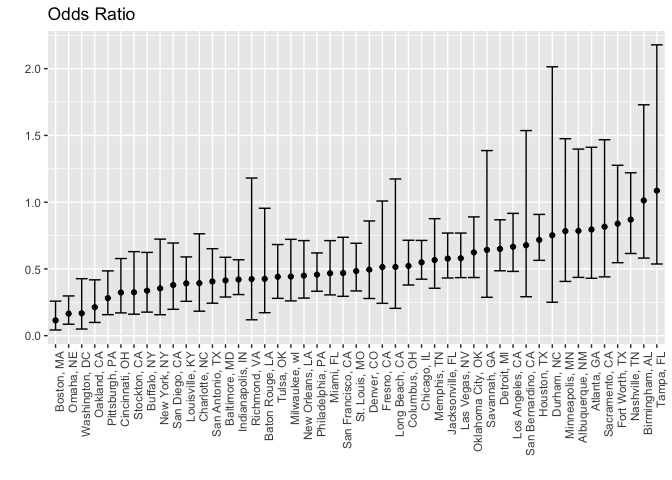
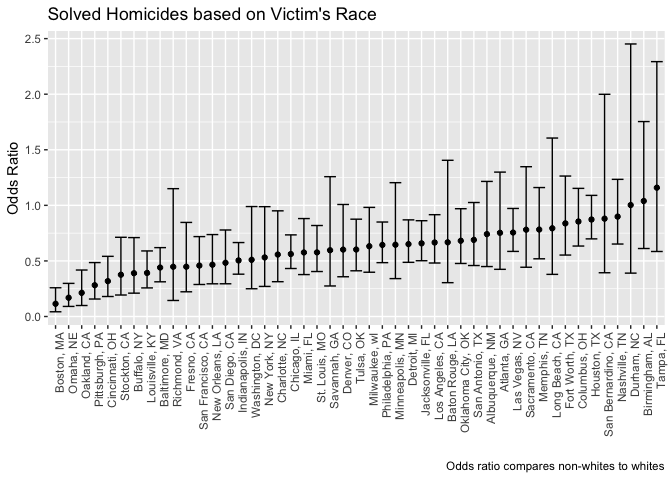
Q2 finished, annotations added

diff --git a/p8105_hw6_mm4963.md b/p8105_hw6_mm4963.md
@@ -12,20 +12,35 @@ Read in and clean data:
 homicide_df = read_csv("https://raw.githubusercontent.com/washingtonpost/data-homicides/master/homicide-data.csv") %>%
   mutate(city_state = str_c(city, ", ", state),
          disposition = factor(disposition),
-         victim_age = as.integer(victim_age),
-         resolved = ifelse(disposition == "Open/No arrest", 0, 1),
+         victim_age = as.numeric(victim_age),
+         resolved = ifelse(disposition == "Closed by arrest", 1, 0),
          resolved = factor(resolved),
          victim_race2 = ifelse(victim_race == "White", "white", "non-white"),
          victim_race2 = factor(victim_race2, levels = c("white", "non-white"))) %>%
   filter(!city_state %in% c("Dallas, TX", "Phoenix, AZ", "Kansas City, MO", "Tulsa, AL"))
 ```
 
-    ## Warning in evalq(as.integer(victim_age), <environment>): NAs introduced by
+    ## Warning in evalq(as.numeric(victim_age), <environment>): NAs introduced by
     ## coercion
 
 ``` r
-#NAs created for unknown ages
+#Homicide resolved defined as "Closed by arrest"
+#Unsolved defined as "Closed without arrest" or "Open/No arrest"
+
+#Check for missing data
+homicide_df %>% 
+  select_if(function(x) any(is.na(x))) %>% 
+  summarise_each(funs(sum(is.na(.)))) %>%
+  knitr::kable()
 ```
+
+|  victim\_age|  lat|  lon|
+|------------:|----:|----:|
+|          515|   60|   60|
+
+This data tells us about the criminal homicides since 2007 in 50 of the largest cities in the USA. For each homicide information is given on the victim's age, race, and sex. The location of the incident described by the city, state, and longitudinal/latitudinal point is specified. The outcome of the homicide, i.e. whether it resulted in an arrest, is also presented.
+
+City-state variable, binary variable indicating whether the homicide is solved, and binary variable indicating whether the victim is white are created. Cities Dallas, TX; Phoenix, AZ; Kansas City, MO; and Tulsa, AL are ommited due to lack of data or data entry error. Age is coerced into numeric, NAs are created for unknown ages. These will be ommited in the upcoming model. The indicator variables come from variables which have no missing data, therefore they do not have any missing values.
 
 Create a model for Baltimore:
 
@@ -34,6 +49,7 @@ baltimore_glm = homicide_df %>%
   filter(city_state == "Baltimore, MD") %>%
   glm(resolved ~ victim_age + victim_sex + victim_race2, data = ., family = binomial())
 
+#Extract wanted information and display
 
 baltimore_glm %>%
   broom::tidy() %>% 
@@ -41,7 +57,7 @@ baltimore_glm %>%
          conf.low = exp(confint(baltimore_glm))[,1],
          conf.high = exp(confint(baltimore_glm)[,2])) %>%
   filter(term == "victim_race2non-white") %>%
-  select(term, OR, conf.low, conf.high) %>% 
+  dplyr::select(term, OR, conf.low, conf.high) %>% 
   knitr::kable(digits = 3)
 ```
 
@@ -50,27 +66,32 @@ baltimore_glm %>%
 
 | term                   |     OR|  conf.low|  conf.high|
 |:-----------------------|------:|---------:|----------:|
-| victim\_race2non-white |  0.414|     0.289|      0.587|
+| victim\_race2non-white |  0.441|     0.312|       0.62|
 
-Create a model for all cities:
+Above we obtain the estimate and confidence interval of the adjusted odds ratio for solving homicides comparing non-white victims to white victims keeping all other variables fixed for the city of Baltimore, MD.
+
+Create a model for all cities in data set:
 
 ``` r
+#Map previously used model to all cities
+#Clean and ouput wanted information
+
 race_glm = homicide_df %>%
-  select(city_state, resolved, victim_age, victim_sex, victim_race2) %>%
+  dplyr::select(city_state, resolved, victim_age, victim_sex, victim_race2) %>%
   mutate(city_state = factor(city_state)) %>%
   nest(-city_state) %>%
   mutate(glm = map(.$data, ~glm(resolved ~ victim_age + victim_sex + victim_race2, data = .x, family = binomial())),
          confint = map(glm, confint),
          glm = map(glm, ~ broom::tidy(.x)),
          confint = map(confint, ~broom::tidy(.x))) %>%
-  select(-data) %>%
+  dplyr::select(-data) %>%
   unnest() %>%
   filter(term == "victim_race2non-white") %>%
   rename(conf.low = "X2.5..", conf.high = "X97.5..") %>%
   mutate(OR = exp(estimate),
          conf.low = exp(conf.low),
          conf.high = exp(conf.high)) %>%
-  select(city_state, OR, conf.low, conf.high)
+  dplyr::select(city_state, OR, conf.low, conf.high)
 
 
 #Plot our findings
@@ -81,11 +102,14 @@ race_glm %>%
     geom_errorbar(aes(ymin = conf.low, ymax = conf.high)) +
     theme(axis.text.x = element_text(angle = 90, hjust = 1)) +
     labs(x = "",
-         y = "",
-         title = "Odds Ratio")
+         y = "Odds Ratio",
+         title = "Solved Homicides based on Victim's Race",
+         caption = "Odds ratio compares non-whites to whites")
 ```
 
 ![](p8105_hw6_mm4963_files/figure-markdown_github/unnamed-chunk-3-1.png)
+
+The graph demonstrates the adjusted odds ratio for solving homicides comparing non-white victims to white victims, keeping victim age and sex fixed. We see there is a lot of variation across cities, ranging from 0.115 in Boston, MA to 1.159 in Tampa, FL. Certain cities have much smaller confidence intervals than others as well. This may be a result of ranging sample sizes from different amounts of homicides occuring in each city, or from missing data.
 
 Probem 2
 --------
@@ -99,40 +123,231 @@ birth_weight_df = read_csv("./birthweight.csv") %>%
          malform = factor(malform),
          mrace = factor(mrace)
          )
-```
 
-Create regression model:
+#Categorical variables factored
+#Numerical variables as numeric
+
+#Check for missing data
+birth_weight_df %>% 
+  select_if(function(x) any(is.na(x))) %>% 
+  summarise_each(funs(sum(is.na(.)))) %>%
+  knitr::kable()
+```
 
 ``` r
-#bwt_lm  <- lm(bwt ~ ., data = birth_weight_df)
-#step(bwt_lm)
-
-bwt_lm = lm(formula = bwt ~ babysex + bhead + blength + delwt + fincome + 
-    gaweeks + mheight + mrace + parity + ppwt + smoken, data = birth_weight_df)
-AIC(bwt_lm)
+#There are no NAs in the data frame
 ```
 
-    ## [1] 61029.44
+Create regression model for birthweight:
+
+``` r
+#Create a model with all variables
+bwt_lm_step = lm(formula = bwt ~ ., data = birth_weight_df)
+
+#Use an automatic stepwise process for variable selection
+bwt_lm_step <- stepAIC(bwt_lm_step, direction = "both")
+```
+
+    ## Start:  AIC=48717.83
+    ## bwt ~ babysex + bhead + blength + delwt + fincome + frace + gaweeks + 
+    ##     malform + menarche + mheight + momage + mrace + parity + 
+    ##     pnumlbw + pnumsga + ppbmi + ppwt + smoken + wtgain
+    ## 
+    ## 
+    ## Step:  AIC=48717.83
+    ## bwt ~ babysex + bhead + blength + delwt + fincome + frace + gaweeks + 
+    ##     malform + menarche + mheight + momage + mrace + parity + 
+    ##     pnumlbw + pnumsga + ppbmi + ppwt + smoken
+    ## 
+    ## 
+    ## Step:  AIC=48717.83
+    ## bwt ~ babysex + bhead + blength + delwt + fincome + frace + gaweeks + 
+    ##     malform + menarche + mheight + momage + mrace + parity + 
+    ##     pnumlbw + ppbmi + ppwt + smoken
+    ## 
+    ## 
+    ## Step:  AIC=48717.83
+    ## bwt ~ babysex + bhead + blength + delwt + fincome + frace + gaweeks + 
+    ##     malform + menarche + mheight + momage + mrace + parity + 
+    ##     ppbmi + ppwt + smoken
+    ## 
+    ##            Df Sum of Sq       RSS   AIC
+    ## - frace     4    124365 320848704 48712
+    ## - malform   1      1419 320725757 48716
+    ## - ppbmi     1      6346 320730684 48716
+    ## - momage    1     28661 320752999 48716
+    ## - mheight   1     66886 320791224 48717
+    ## - menarche  1    111679 320836018 48717
+    ## - ppwt      1    131132 320855470 48718
+    ## <none>                  320724338 48718
+    ## - fincome   1    193454 320917792 48718
+    ## - parity    1    413584 321137922 48721
+    ## - mrace     3    868321 321592659 48724
+    ## - babysex   1    853796 321578134 48727
+    ## - gaweeks   1   4611823 325336161 48778
+    ## - smoken    1   5076393 325800732 48784
+    ## - delwt     1   8008891 328733230 48823
+    ## - blength   1 102050296 422774634 49915
+    ## - bhead     1 106535716 427260054 49961
+    ## 
+    ## Step:  AIC=48711.51
+    ## bwt ~ babysex + bhead + blength + delwt + fincome + gaweeks + 
+    ##     malform + menarche + mheight + momage + mrace + parity + 
+    ##     ppbmi + ppwt + smoken
+    ## 
+    ##            Df Sum of Sq       RSS   AIC
+    ## - malform   1      1447 320850151 48710
+    ## - ppbmi     1      6975 320855679 48710
+    ## - momage    1     28379 320877083 48710
+    ## - mheight   1     69502 320918206 48710
+    ## - menarche  1    115708 320964411 48711
+    ## - ppwt      1    133961 320982665 48711
+    ## <none>                  320848704 48712
+    ## - fincome   1    194405 321043108 48712
+    ## - parity    1    414687 321263390 48715
+    ## + frace     4    124365 320724338 48718
+    ## - babysex   1    852133 321700837 48721
+    ## - gaweeks   1   4625208 325473911 48772
+    ## - smoken    1   5036389 325885093 48777
+    ## - delwt     1   8013099 328861802 48817
+    ## - mrace     3  13540415 334389119 48885
+    ## - blength   1 101995688 422844392 49908
+    ## - bhead     1 106662962 427511666 49956
+    ## 
+    ## Step:  AIC=48709.53
+    ## bwt ~ babysex + bhead + blength + delwt + fincome + gaweeks + 
+    ##     menarche + mheight + momage + mrace + parity + ppbmi + ppwt + 
+    ##     smoken
+    ## 
+    ##            Df Sum of Sq       RSS   AIC
+    ## - ppbmi     1      6928 320857079 48708
+    ## - momage    1     28660 320878811 48708
+    ## - mheight   1     69320 320919470 48708
+    ## - menarche  1    116027 320966177 48709
+    ## - ppwt      1    133894 320984044 48709
+    ## <none>                  320850151 48710
+    ## - fincome   1    193784 321043934 48710
+    ## + malform   1      1447 320848704 48712
+    ## - parity    1    414482 321264633 48713
+    ## + frace     4    124393 320725757 48716
+    ## - babysex   1    851279 321701430 48719
+    ## - gaweeks   1   4624003 325474154 48770
+    ## - smoken    1   5035195 325885346 48775
+    ## - delwt     1   8029079 328879230 48815
+    ## - mrace     3  13553320 334403471 48883
+    ## - blength   1 102009225 422859375 49906
+    ## - bhead     1 106675331 427525481 49954
+    ## 
+    ## Step:  AIC=48707.63
+    ## bwt ~ babysex + bhead + blength + delwt + fincome + gaweeks + 
+    ##     menarche + mheight + momage + mrace + parity + ppwt + smoken
+    ## 
+    ##            Df Sum of Sq       RSS   AIC
+    ## - momage    1     29211 320886290 48706
+    ## - menarche  1    117635 320974714 48707
+    ## <none>                  320857079 48708
+    ## - fincome   1    195199 321052278 48708
+    ## + ppbmi     1      6928 320850151 48710
+    ## + malform   1      1400 320855679 48710
+    ## - parity    1    412984 321270064 48711
+    ## + frace     4    125020 320732060 48714
+    ## - babysex   1    850020 321707099 48717
+    ## - mheight   1   1078673 321935752 48720
+    ## - ppwt      1   2934023 323791103 48745
+    ## - gaweeks   1   4621504 325478583 48768
+    ## - smoken    1   5039368 325896447 48773
+    ## - delwt     1   8024939 328882018 48813
+    ## - mrace     3  13551444 334408523 48881
+    ## - blength   1 102018559 422875638 49904
+    ## - bhead     1 106821342 427678421 49953
+    ## 
+    ## Step:  AIC=48706.02
+    ## bwt ~ babysex + bhead + blength + delwt + fincome + gaweeks + 
+    ##     menarche + mheight + mrace + parity + ppwt + smoken
+    ## 
+    ##            Df Sum of Sq       RSS   AIC
+    ## - menarche  1    100121 320986412 48705
+    ## <none>                  320886290 48706
+    ## - fincome   1    240800 321127090 48707
+    ## + momage    1     29211 320857079 48708
+    ## + ppbmi     1      7479 320878811 48708
+    ## + malform   1      1678 320884612 48708
+    ## - parity    1    431433 321317724 48710
+    ## + frace     4    124743 320761547 48712
+    ## - babysex   1    841278 321727568 48715
+    ## - mheight   1   1076739 321963029 48719
+    ## - ppwt      1   2913653 323799943 48743
+    ## - gaweeks   1   4676469 325562760 48767
+    ## - smoken    1   5045104 325931394 48772
+    ## - delwt     1   8000672 328886962 48811
+    ## - mrace     3  14667730 335554021 48894
+    ## - blength   1 101990556 422876847 49902
+    ## - bhead     1 106864308 427750598 49952
+    ## 
+    ## Step:  AIC=48705.38
+    ## bwt ~ babysex + bhead + blength + delwt + fincome + gaweeks + 
+    ##     mheight + mrace + parity + ppwt + smoken
+    ## 
+    ##            Df Sum of Sq       RSS   AIC
+    ## <none>                  320986412 48705
+    ## + menarche  1    100121 320886290 48706
+    ## - fincome   1    245637 321232048 48707
+    ## + momage    1     11698 320974714 48707
+    ## + ppbmi     1      8823 320977589 48707
+    ## + malform   1      1884 320984528 48707
+    ## - parity    1    422770 321409181 48709
+    ## + frace     4    128726 320857686 48712
+    ## - babysex   1    846134 321832545 48715
+    ## - mheight   1   1012240 321998651 48717
+    ## - ppwt      1   2907049 323893461 48743
+    ## - gaweeks   1   4662501 325648912 48766
+    ## - smoken    1   5073849 326060260 48771
+    ## - delwt     1   8137459 329123871 48812
+    ## - mrace     3  14683609 335670021 48894
+    ## - blength   1 102191779 423178191 49903
+    ## - bhead     1 106779754 427766166 49950
+
+``` r
+#Show results
+bwt_lm_step %>%
+  broom::glance()
+```
+
+    ## # A tibble: 1 x 11
+    ##   r.squared adj.r.squared sigma statistic p.value    df  logLik    AIC
+    ## *     <dbl>         <dbl> <dbl>     <dbl>   <dbl> <int>   <dbl>  <dbl>
+    ## 1     0.718         0.717  272.      848.       0    14 -30500. 61029.
+    ## # ... with 3 more variables: BIC <dbl>, deviance <dbl>, df.residual <int>
+
+I used a data driven stepwise selection method to create a model to predict birthweight. This selected the variables which would minimize the AIC. This may be problematic because it may remove variables which we are interested in seeing the relationship with birthweight and it may include highly correlated covariates. For simply predictive purposes however this appears to do well, with an R squared of 0.718.
 
 Diagnostic of previously created model:
 
 ``` r
 birth_weight_df %>%
-  modelr::add_predictions(bwt_lm) %>%
-  modelr::add_residuals(bwt_lm) %>%
-  ggplot(aes(x = resid, y = pred)) + 
-  geom_point(alpha = 0.5)
+  modelr::add_predictions(bwt_lm_step) %>%
+  modelr::add_residuals(bwt_lm_step) %>%
+  ggplot(aes(x = pred, y = resid)) + 
+  geom_point(alpha = 0.5) +
+    labs(x = "Predicted Value",
+         y = "Residual",
+         title = "Birthweight Model")
 ```
 
 ![](p8105_hw6_mm4963_files/figure-markdown_github/unnamed-chunk-6-1.png)
 
+The plot above shows us how well we satisfied the assumption of equal variance of the residuals as well as looks for outliers. There is a big data size, 4342, therefore seeing a trend is difficult. The residuals do seem to bounce around zero which is good since the expected value is zero. There does seem to be some values which stand out on the lower end however, we may want to look into these if we were to continue with this model.
+
 Comparing models (CV):
 
 ``` r
-bwt_lm_2 = lm(bwt ~ gaweeks + blength, data = birth_weight_df)
+set.seed(1)
+
+#Create models to compare mine to 
+bwt_lm_2 = lm(bwt ~ blength + gaweeks, data = birth_weight_df)
 bwt_lm_3interact = lm(bwt ~ bhead*blength*babysex, data = birth_weight_df)
 
-
+#Create training and testing data, cross validate
 cv_df = 
   crossv_mc(birth_weight_df, 100) %>% 
   mutate(train = map(train, as_tibble),
@@ -143,9 +358,18 @@ cv_df =
   mutate(rmse_my_mod       = map2_dbl(my_mod, test, ~rmse(model = .x, data = .y)),
          rmse_reg_mod      = map2_dbl(reg_mod, test, ~rmse(model = .x, data = .y)),
          rmse_interact_mod = map2_dbl(interact_mod, test, ~rmse(model = .x, data = .y)))
+```
 
+    ## Warning in predict.lm(model, data): prediction from a rank-deficient fit
+    ## may be misleading
+
+    ## Warning in predict.lm(model, data): prediction from a rank-deficient fit
+    ## may be misleading
+
+``` r
+#Plot RMSE to compare models
 cv_df %>% 
-  select(starts_with("rmse")) %>% 
+  dplyr::select(starts_with("rmse")) %>% 
   gather(key = model, value = rmse) %>% 
   mutate(model = str_replace(model, "rmse_", ""),
          model = fct_inorder(model)) %>% 
@@ -153,3 +377,5 @@ cv_df %>%
 ```
 
 ![](p8105_hw6_mm4963_files/figure-markdown_github/unnamed-chunk-7-1.png)
+
+We are looking for the model which gives us the lowest root mean squared error (RMSE). We see the model only using length at birth and gestational age as predictors does not do a very good job with the testing data and therefore we would not count on it to have the best predictive ability of birthweight. My model does a little better than the interaction model. Mine, however, has a lot more variables which may be problematic while the interaction model can be very confusing to interpret. In practice I would use my model but try to cut down on variables if possible and look more into collinearity and the assumptions of a linear regression model, seeing how we may have some violations.
